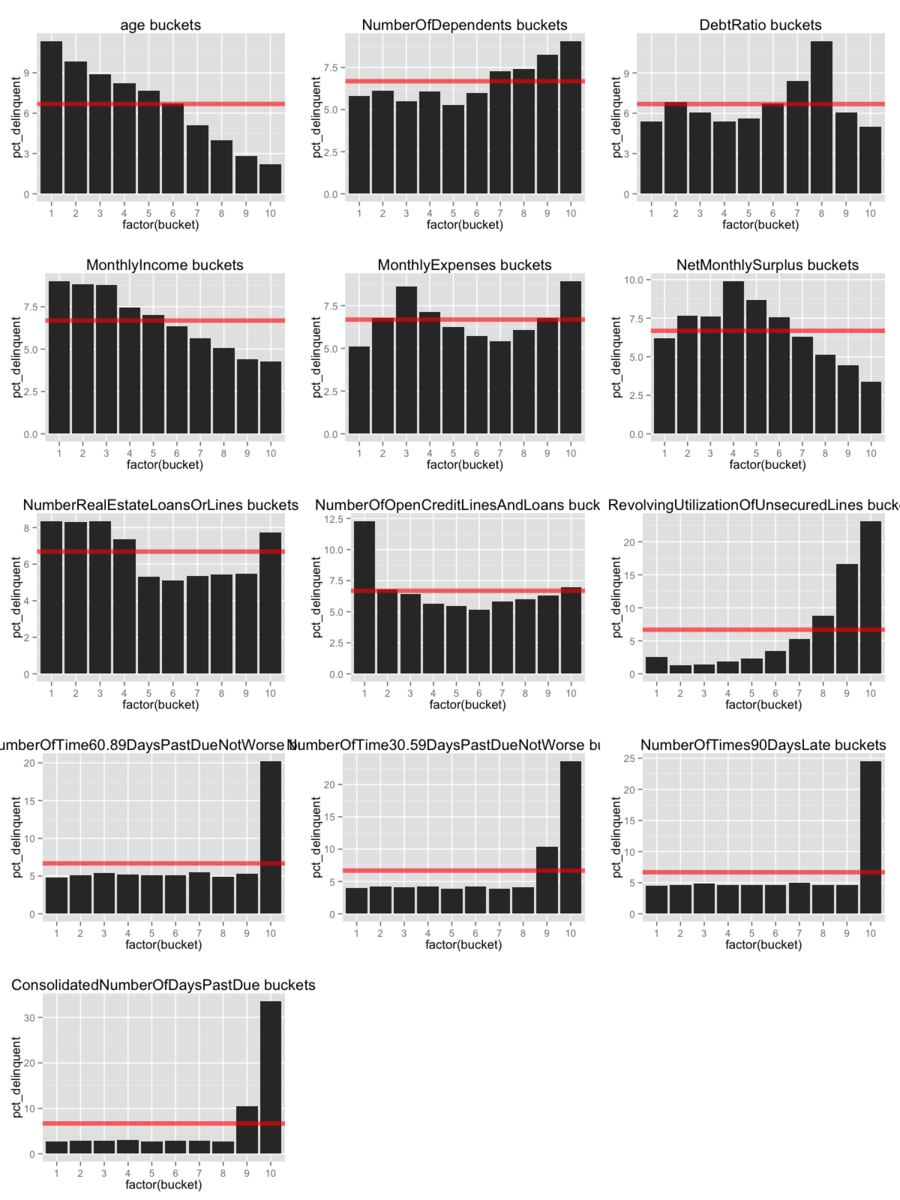
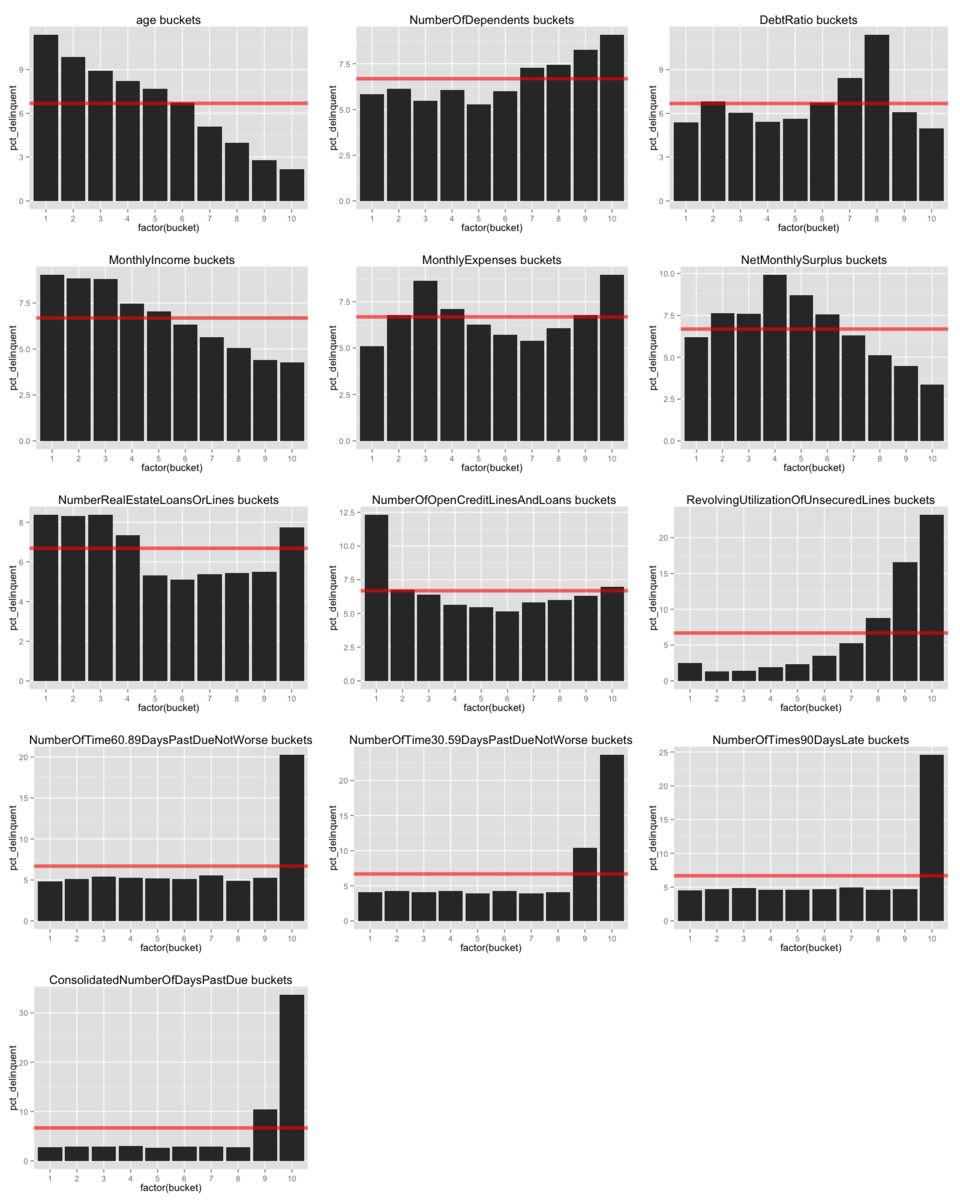
hopefully finall image tweaks

Changed region(s): [[0.0, 0.0, 1.0, 1.0]]

diff --git a/capstone/GiveMeSomeCredit/gen_feature_bucket_r.py b/capstone/GiveMeSomeCredit/gen_feature_bucket_r.py
@@ -61,7 +61,7 @@ for var in variables:
     i += 1
 
 print '# group charts into one'
-print 'png("feature_bucketed_discr.png", width=12, height=16, units="in", res=100)'
+print 'png("feature_bucketed_discr.png", width=16, height=20, units="in", res=100)'
 
 a = []
 for j in range(1, i):
